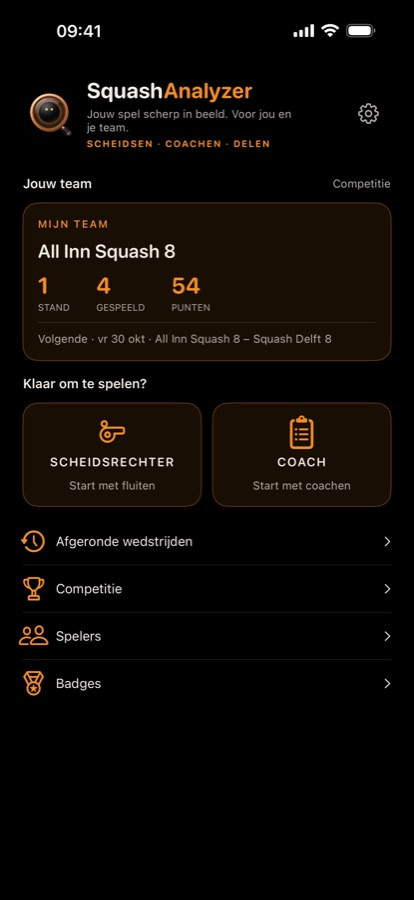
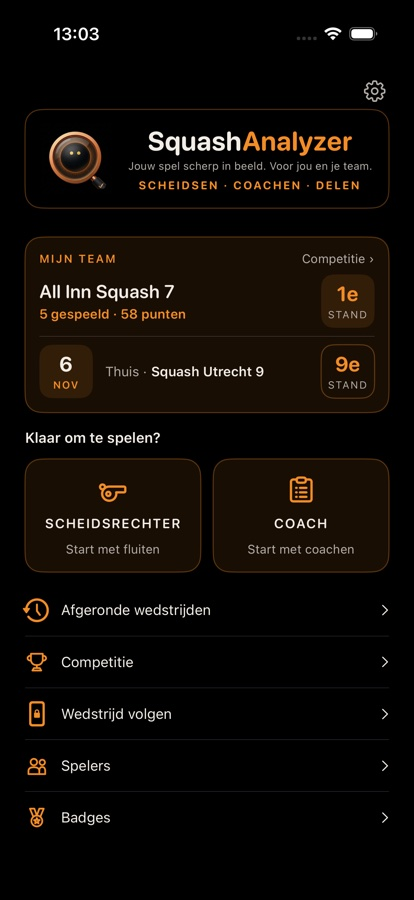
Handleiding: beginscherm met de nieuwe Mijn team-kaart (iPhone en Android)

diff --git a/website/handleiding/iphone.html b/website/handleiding/iphone.html
@@ -68,7 +68,7 @@
         <div class="note">Spelers en wedstrijden worden lokaal op je iPhone bewaard. Alleen wanneer je een online functie gebruikt, zoals live meekijken, AI Coach of delen, gaan daarvoor gegevens naar buiten. Een coachwedstrijd wordt na elk punt automatisch bewaard.</div>
       </div>
       <div class="shots">
-        <figure><span class="beta-tag">Bèta</span><img src="img/iphone/home.jpg?v=18" alt="Beginscherm met Scheidsrechter, Coach en de overige onderdelen" loading="lazy"><figcaption>Het beginscherm</figcaption></figure>
+        <figure><span class="beta-tag">Bèta</span><img src="img/iphone/home.jpg?v=19" alt="Beginscherm met Scheidsrechter, Coach en de overige onderdelen" loading="lazy"><figcaption>Het beginscherm</figcaption></figure>
         <figure><span class="beta-tag">Bèta</span><img src="img/iphone/rondleiding.jpg?v=18" alt="Eerste scherm van de rondleiding met Scheidsen, Coachen en Delen" loading="lazy"><figcaption>De rondleiding bij de eerste start</figcaption></figure>
       </div>
     </section>

diff --git a/website/en/guide/iphone.html b/website/en/guide/iphone.html
@@ -69,7 +69,7 @@
         <div class="note">Players and matches are stored locally on your iPhone. Data only leaves your phone when you use an online feature, such as live sharing, AI Coach or sharing. A coach match is saved automatically after every point.</div>
       </div>
       <div class="shots">
-        <figure><span class="beta-tag">Beta</span><img src="/handleiding/img/iphone/home.jpg?v=18" alt="Home screen with Referee, Coach and the other sections" loading="lazy"><figcaption>The home screen</figcaption></figure>
+        <figure><span class="beta-tag">Beta</span><img src="/handleiding/img/iphone/home.jpg?v=19" alt="Home screen with Referee, Coach and the other sections" loading="lazy"><figcaption>The home screen</figcaption></figure>
         <figure><span class="beta-tag">Beta</span><img src="/handleiding/img/iphone/rondleiding.jpg?v=18" alt="First screen of the tour with Referee, Coach and Share" loading="lazy"><figcaption>The tour on first launch</figcaption></figure>
       </div>
     </section>

diff --git a/website/handleiding/android.html b/website/handleiding/android.html
@@ -68,7 +68,7 @@
         <div class="note">Scheidsrechter- en coachwedstrijden worden automatisch opgeslagen. Tik later gewoon weer op de tegel om verder te gaan. Zolang het scheidsrechter- of coachscherm open is, gaat je scherm niet op slot.</div>
       </div>
       <div class="shots">
-        <figure><span class="beta-tag">Bèta</span><img src="img/android/home.jpg?v=18" alt="Beginscherm met Scheidsrechter, Coach en de overige onderdelen" loading="lazy"><figcaption>Het beginscherm</figcaption></figure>
+        <figure><span class="beta-tag">Bèta</span><img src="img/android/home.jpg?v=19" alt="Beginscherm met Scheidsrechter, Coach en de overige onderdelen" loading="lazy"><figcaption>Het beginscherm</figcaption></figure>
         <figure><span class="beta-tag">Bèta</span><img src="img/android/rondleiding.jpg?v=18" alt="Eerste scherm van de rondleiding met Scheidsen, Coachen en Delen" loading="lazy"><figcaption>De rondleiding bij de eerste start</figcaption></figure>
       </div>
     </section>

diff --git a/website/en/guide/android.html b/website/en/guide/android.html
@@ -69,7 +69,7 @@
         <div class="note">Referee and coach matches are saved automatically. Just tap the tile again later to carry on. While the referee or coach screen is open, your screen does not lock.</div>
       </div>
       <div class="shots">
-        <figure><span class="beta-tag">Beta</span><img src="/handleiding/img/android/home.jpg?v=18" alt="Home screen with Referee, Coach and the other sections" loading="lazy"><figcaption>The home screen</figcaption></figure>
+        <figure><span class="beta-tag">Beta</span><img src="/handleiding/img/android/home.jpg?v=19" alt="Home screen with Referee, Coach and the other sections" loading="lazy"><figcaption>The home screen</figcaption></figure>
         <figure><span class="beta-tag">Beta</span><img src="/handleiding/img/android/rondleiding.jpg?v=18" alt="First screen of the tour with Referee, Coach and Share" loading="lazy"><figcaption>The tour on first launch</figcaption></figure>
       </div>
     </section>
